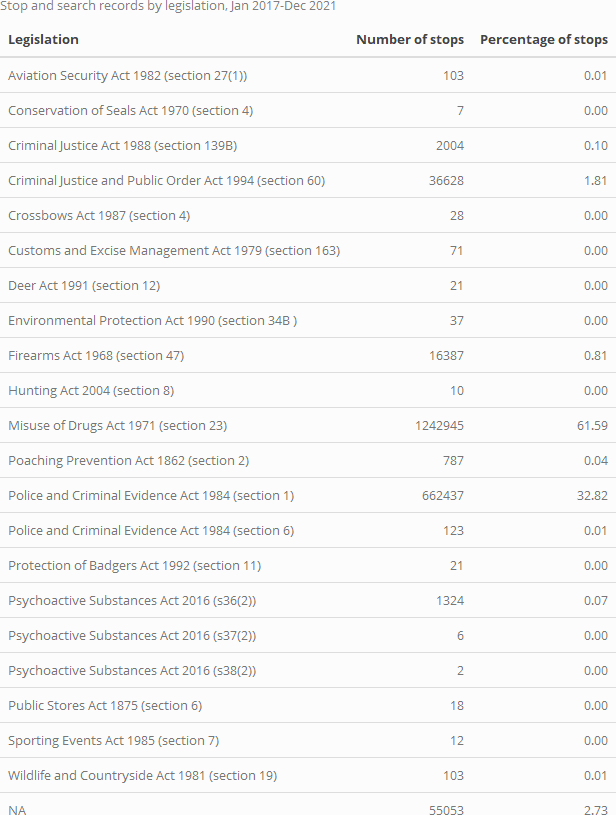
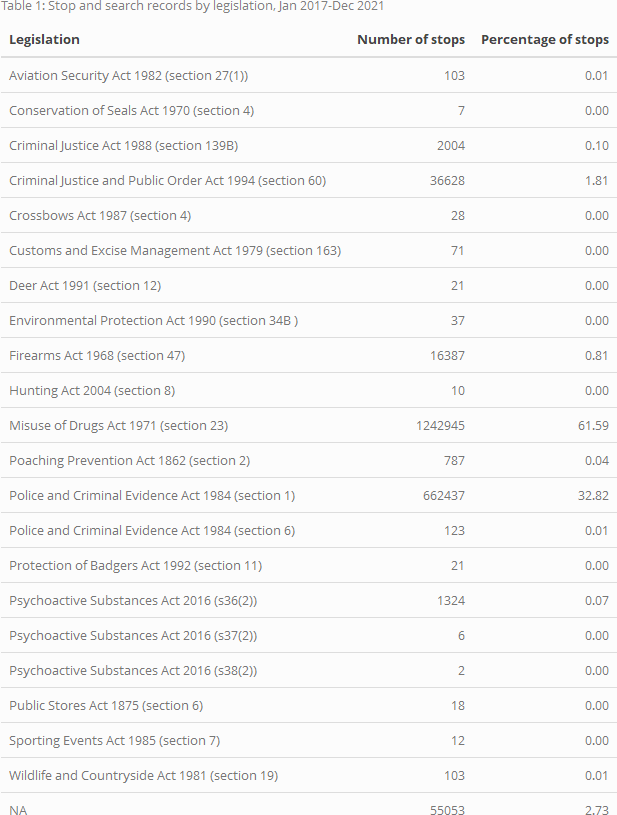
update table title in script and outputs

diff --git a/outputs/legislation_table.html b/outputs/legislation_table.html
@@ -281,7 +281,7 @@ border: 0;
 </head>
 <body>
 <table class="table" style="width: auto !important; margin-left: auto; margin-right: auto;">
-<caption>Stop and search records by legislation, Jan 2017-Dec 2021</caption>
+<caption>Table 1: Stop and search records by legislation, Jan 2017-Dec 2021</caption>
  <thead>
   <tr>
    <th style="text-align:left;"> Legislation </th>
